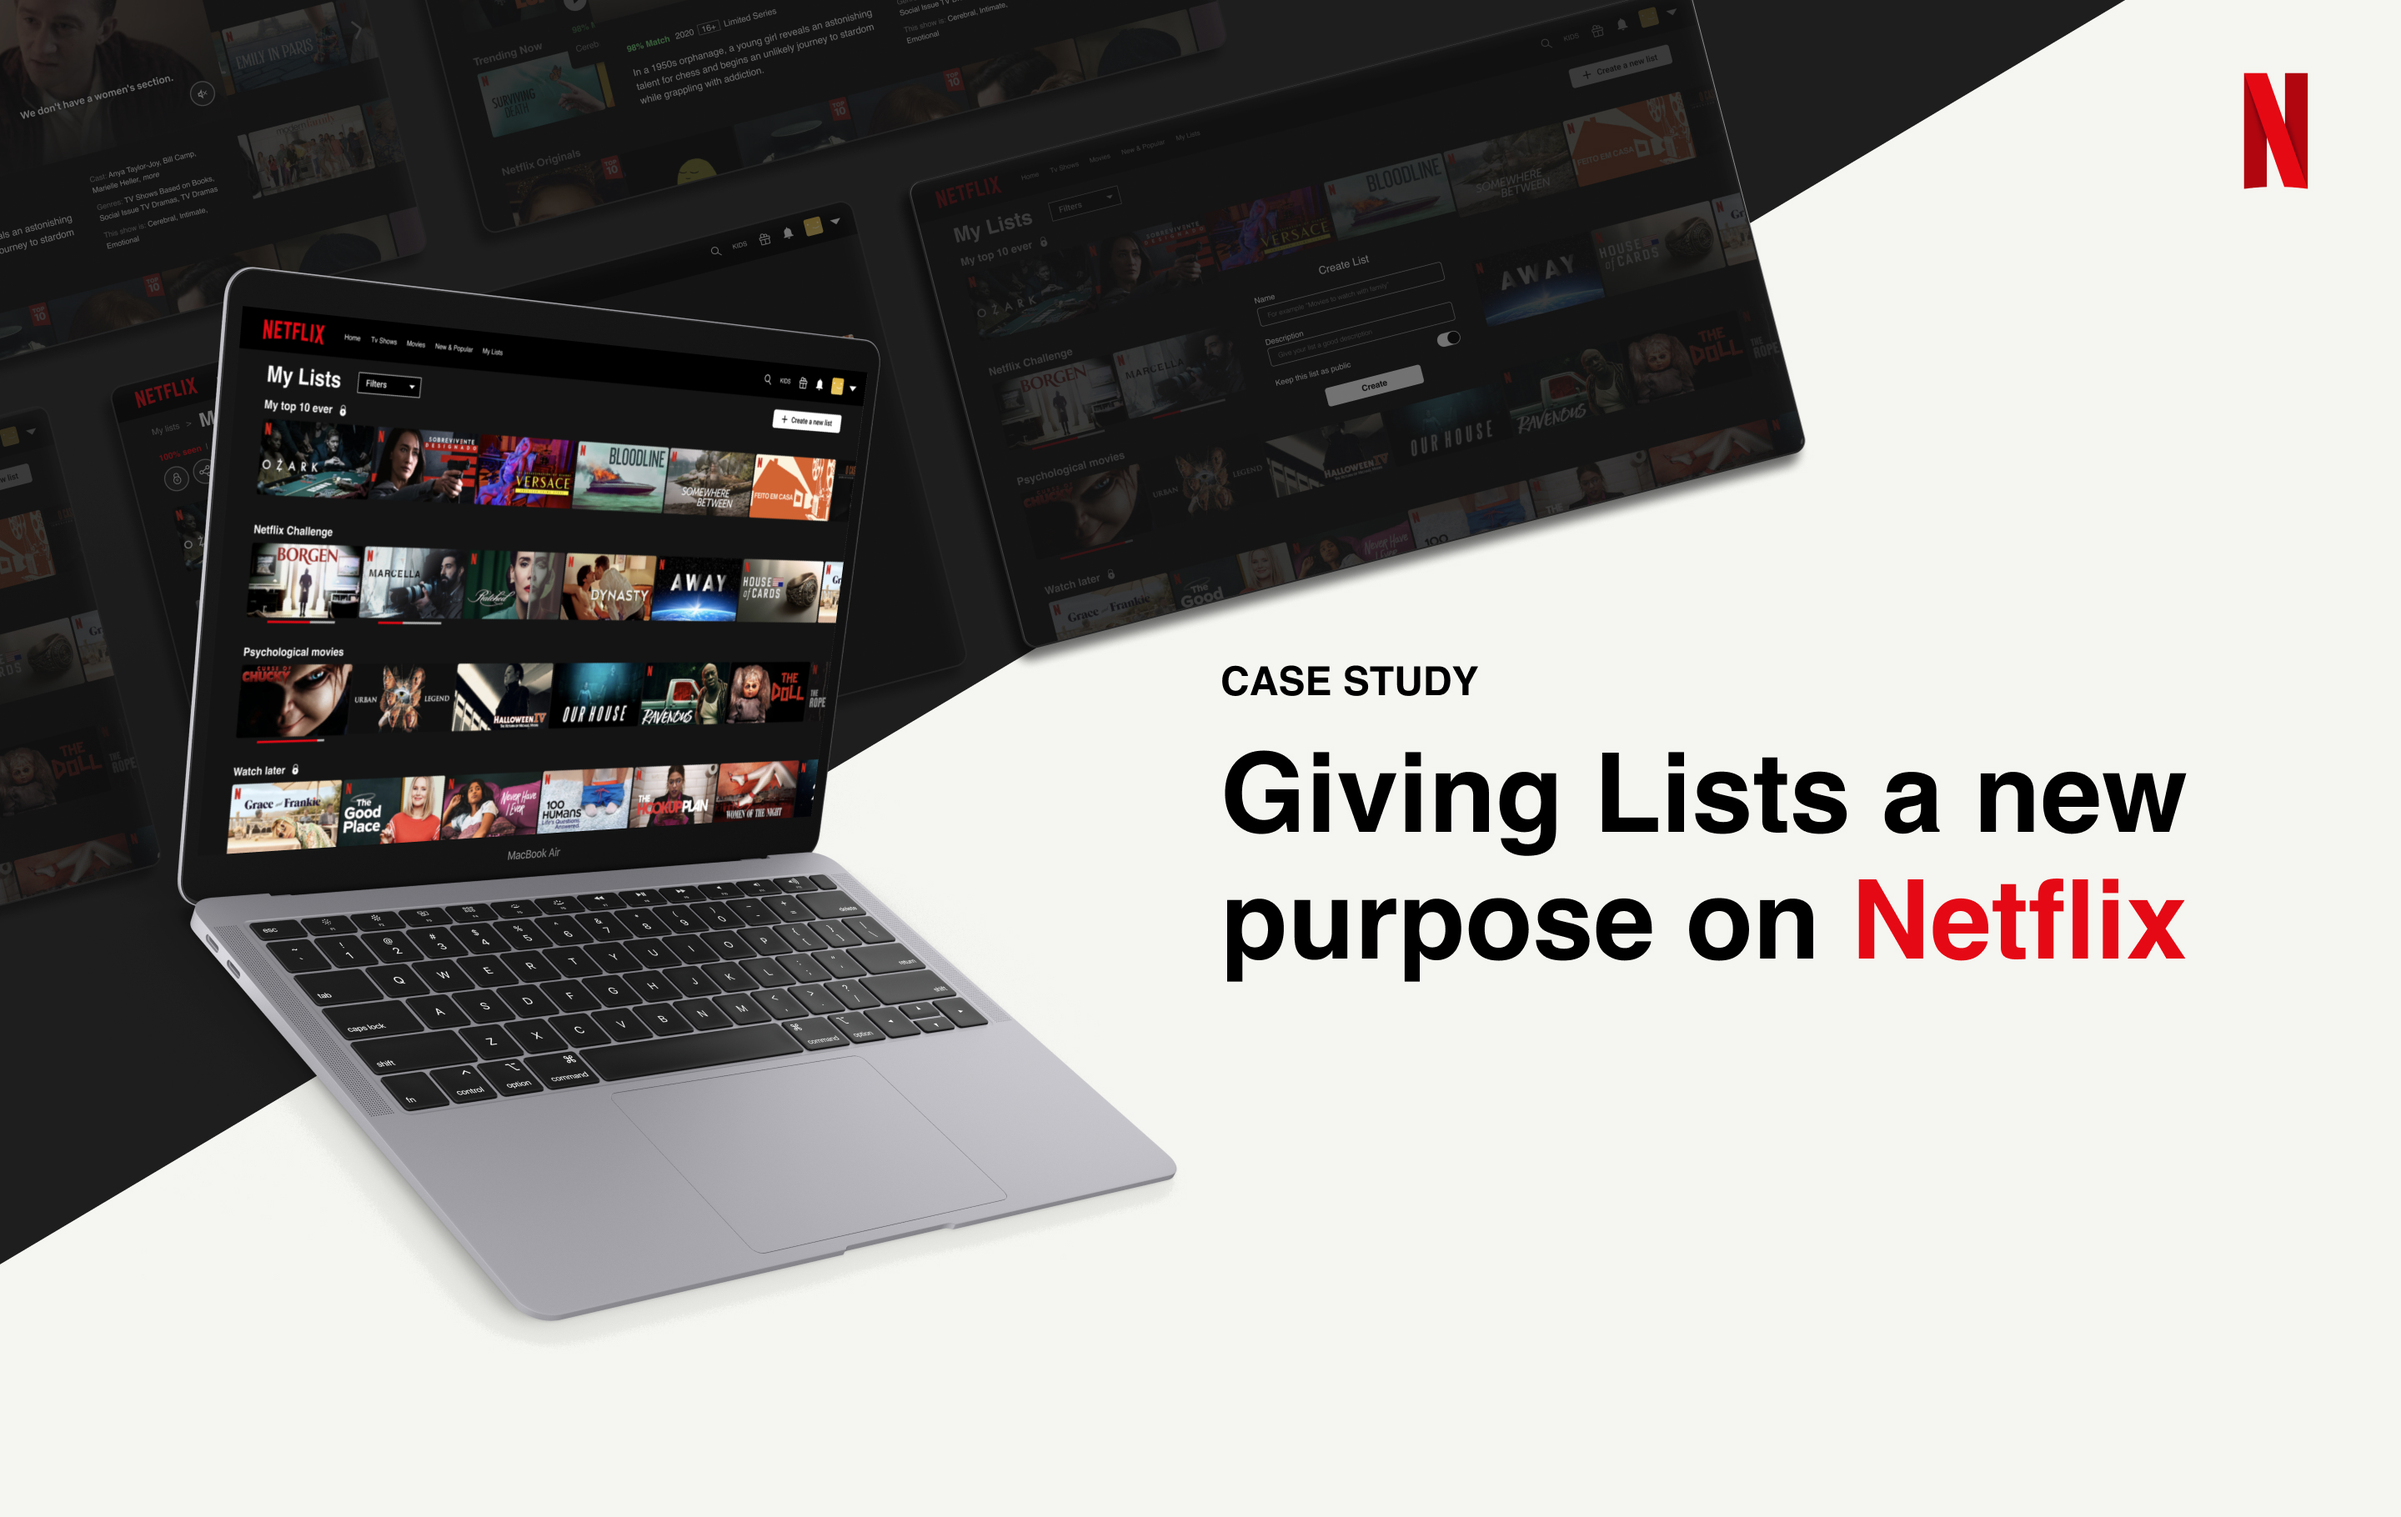
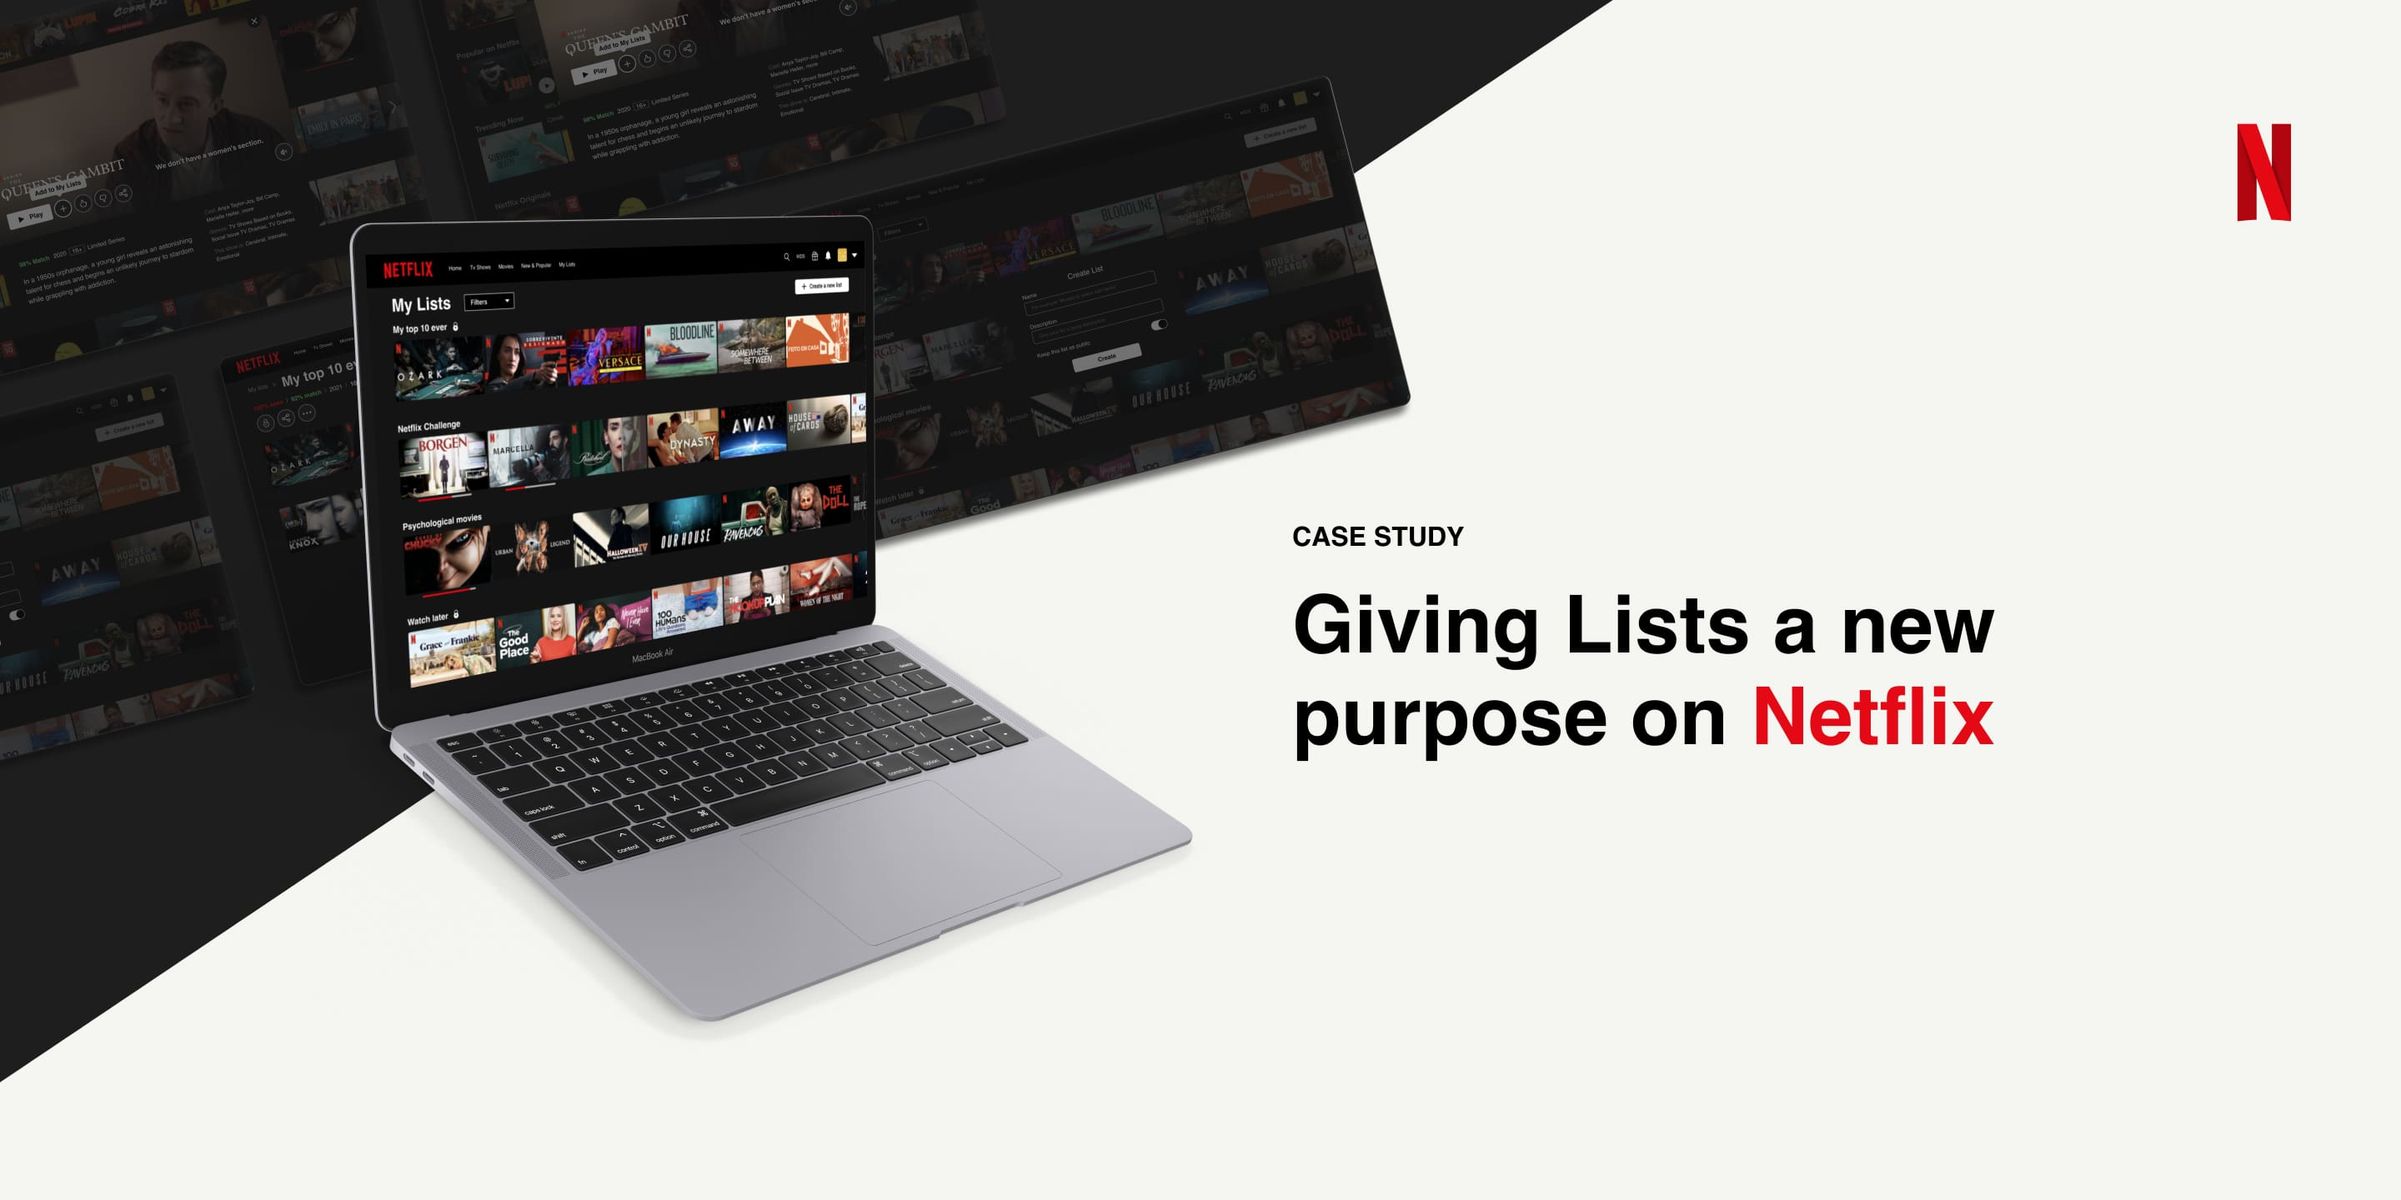
Images

diff --git a/_projects/Giving-Lists-a-new-purpose-on-Netflix.md b/_projects/Giving-Lists-a-new-purpose-on-Netflix.md
@@ -20,13 +20,11 @@ process_text:
   - paragraph: 'In the Define phase, after an affinity mapping group session, we came up with six insights to understand what we had to keep in mind creating this feature. From our insights, we created four HMW’s to frame our problem and better understand the opportunities. We decided to create a journey map. We follow the users experience since he opens Netflix until he starts watching the desired content. This allowed us to visualize the pain points.'
   - paragraph: 'In the Ideation phase, we started by putting ideas on paper and making our ideas tangible to discuss and find the best way to develop this feature. After having a clear idea of how everything would work out, we analysed Netflix UI and applied the same rules and guidelines to our prototype, focusing on the desktop browser version. Last but not least, we started user testing by defining some tasks and recruiting nine users to test the features. The results and feedback were mainly positive and the tasks completed.'
 images:
-  - image_path: Netflix01.jpg
+  - image_path: Netflix02.jpg
     image_alt: Computer mockup with the new my lists page
-  - image_path: Netflix01.jpg
+  - image_path: Netflix03.jpg
     image_alt: Computer mockup with the new my lists page
-  - image_path: Netflix01.jpg
-    image_alt: Computer mockup with the new my lists page
-  - image_path: Netflix01.jpg
+  - image_path: Netflix04.jpg
     image_alt: Computer mockup with the new my lists page
 takeaways_text:
   - takeaway: Always have the user and the client in mind throughout the project.

diff --git a/_projects/Pathfinder-a-Designer-Job-Roles-Quiz.md b/_projects/Pathfinder-a-Designer-Job-Roles-Quiz.md
@@ -3,7 +3,7 @@ layout: projectpage
 title: Pathfinder a Designer Job Roles Quiz
 small_title: Pathfinder
 order: 4
-thumbnail_path: PathFinder01.png
+thumbnail_path: PathFinder01.jpg
 thumbnail_alt: Computer and Phone Mockup wiht Homepage
 description: The perfect tool to find the ideal job for designers
 category: Product Design
@@ -15,13 +15,11 @@ the_challenge_text:
   - paragraph: When you are a designer, sometimes you don't know what to call yourself when people ask what you do because there are many roles, some of them even seem to overlap. 
   - paragraph: Additionally, when you want to get a job, you find yourself reading all the job offers' details trying to understand if you have the right skills because you don't know the correct term of what you actually do. With this solution we simplified the process of identifying the kind of designer that you are, so you can easily find the right job for you.
 images:
-  - image_path: PathFinder01.png
+  - image_path: PathFinder02.jpg
     image_alt: Computer and Phone Mockup wiht Homepage
-  - image_path: PathFinder01.png
+  - image_path: PathFinder03.jpg
     image_alt: Computer and Phone Mockup wiht Homepage
-  - image_path: PathFinder01.png
-    image_alt: Computer and Phone Mockup wiht Homepage
-  - image_path: PathFinder01.png
+  - image_path: PathFinder04.jpg
     image_alt: Computer and Phone Mockup wiht Homepage
 behance_link: 114600153/Pathfinder-a-Designer-Job-Roles-Quiz
 ---

diff --git a/_projects/FBAULs-website-for-International-Students.md b/_projects/FBAULs-website-for-International-Students.md
@@ -4,7 +4,7 @@ title: Rethinking fbaul's website for International Students
 small_title: Fbaul's website for IN students
 inhomepage: true
 order: 2
-thumbnail_path: FBAUL01.png
+thumbnail_path: FBAUL01.jpg
 thumbnail_alt: Fbaul's website homepage mockup
 description: How can we improve international students' experience on Fbaul's website, considering the current pain points?
 category: Product Design
@@ -19,13 +19,9 @@ process_text:
   - paragraph: 'We analyzed websites from universities and students portals, in order to understand what is already done in the International Students field. To understand better our target, we created two personas representing two exchange students.'
   - paragraph: 'Our main objectives with the redesign were: Re-organize the information architecture; Provide greater accessibility and intuitiveness; Make the website cleaner and more appealing; Building more dynamic pages.'
 images:
-  - image_path: FBAUL01.png
+  - image_path: FBAUL02.jpg
     image_alt: Fbaul's website homepage mockup
-  - image_path: FBAUL01.png
-    image_alt: Fbaul's website homepage mockup
-  - image_path: FBAUL01.png
-    image_alt: Fbaul's website homepage mockup
-  - image_path: FBAUL01.png
+  - image_path: FBAUL03.jpg
     image_alt: Fbaul's website homepage mockup
 takeaways_text:
   - takeaway: A good information architecture goes a long way

diff --git a/_projects/CHRONOPOLIS.md b/_projects/CHRONOPOLIS.md
@@ -15,13 +15,15 @@ the_challenge_text:
   - paragraph: Based on the principles of creation of Fritz Lang's Metropolis (1927) , we explore a new vision of temporality as well as technological advances, artificial intelligence and their role in society, authority and politics in contemporary times. 
   - paragraph: In this city there is no time waste. Everything is harmoniously coordinated so that life is calm and serene, and so that there is no room for setbacks or overlaps. The time for error has become null so that nothing could disturb the well being of all citizens. The city of time opens doors to all individuals who wish to have more time for themselves, for their leisure and for their rest. Do you submit yourself?
 images:
-  - image_path: CHRONOPOLIS01.jpg
+  - image_path: CHRONOPOLIS02.jpg
     image_alt: Mockup of chronopolis final book
-  - image_path: CHRONOPOLIS01.jpg
+  - image_path: CHRONOPOLIS03.png
     image_alt: Mockup of chronopolis final book
-  - image_path: CHRONOPOLIS01.jpg
+  - image_path: CHRONOPOLIS04.png
     image_alt: Mockup of chronopolis final book
-  - image_path: CHRONOPOLIS01.jpg
+  - image_path: CHRONOPOLIS05.png
+    image_alt: Mockup of chronopolis final book
+  - image_path: CHRONOPOLIS06.jpg
     image_alt: Mockup of chronopolis final book
 behance_link: 109323023/CHRONOPOLIS
 ---

diff --git a/_projects/A-Collision-Between-A-Stream-Of-Light-And-An-Obstacle.md b/_projects/A-Collision-Between-A-Stream-Of-Light-And-An-Obstacle.md
@@ -16,13 +16,13 @@ the_challenge_text:
   - paragraph: At the end of my degree I had the privilege to be part of the organising team for the 2020 Communication Design finalists show — A Collision between a Stream of Light and an Obstacle. The graduate show is the culmination of the work developed by the new graduates and aims to make known the projects developed in the last year of the degree. 
   - paragraph: Due to the Covid-19 pandemic, it had to assume a fully digital format. The organising team was responsible for the development of the identity of the show, creation of the website, communication objects, social media management and a publication.
 images:
-  - image_path: Collision01.jpg
+  - image_path: Collision02.jpg
     image_alt: Mockup of website pages
-  - image_path: Collision01.jpg
+  - image_path: Collision03.jpg
     image_alt: Mockup of website pages
-  - image_path: Collision01.jpg
+  - image_path: Collision04.jpg
     image_alt: Mockup of website pages
-  - image_path: Collision01.jpg
+  - image_path: Collision05.jpg
     image_alt: Mockup of website pages
 behance_link: 109322657/A-Collision-Between-A-Stream-Of-Light-And-An-Obstacle
 ---
